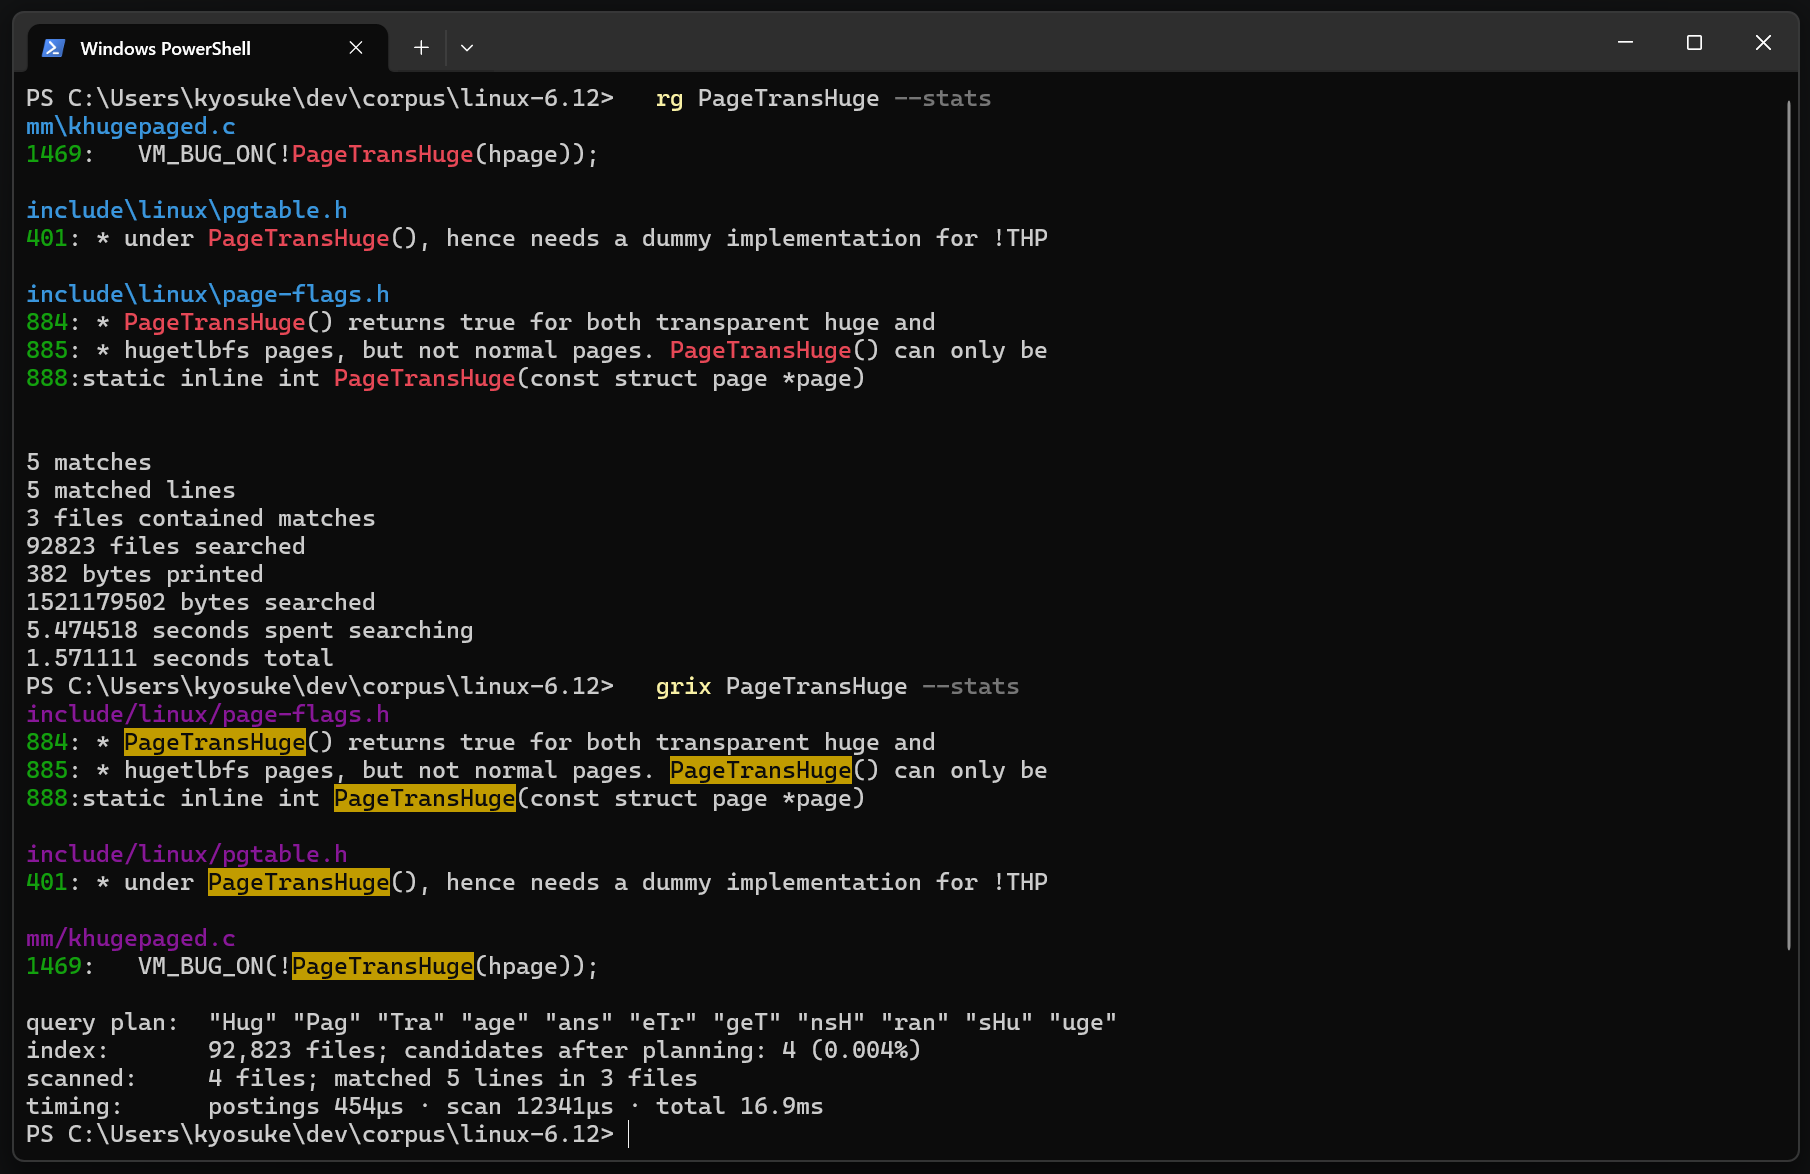
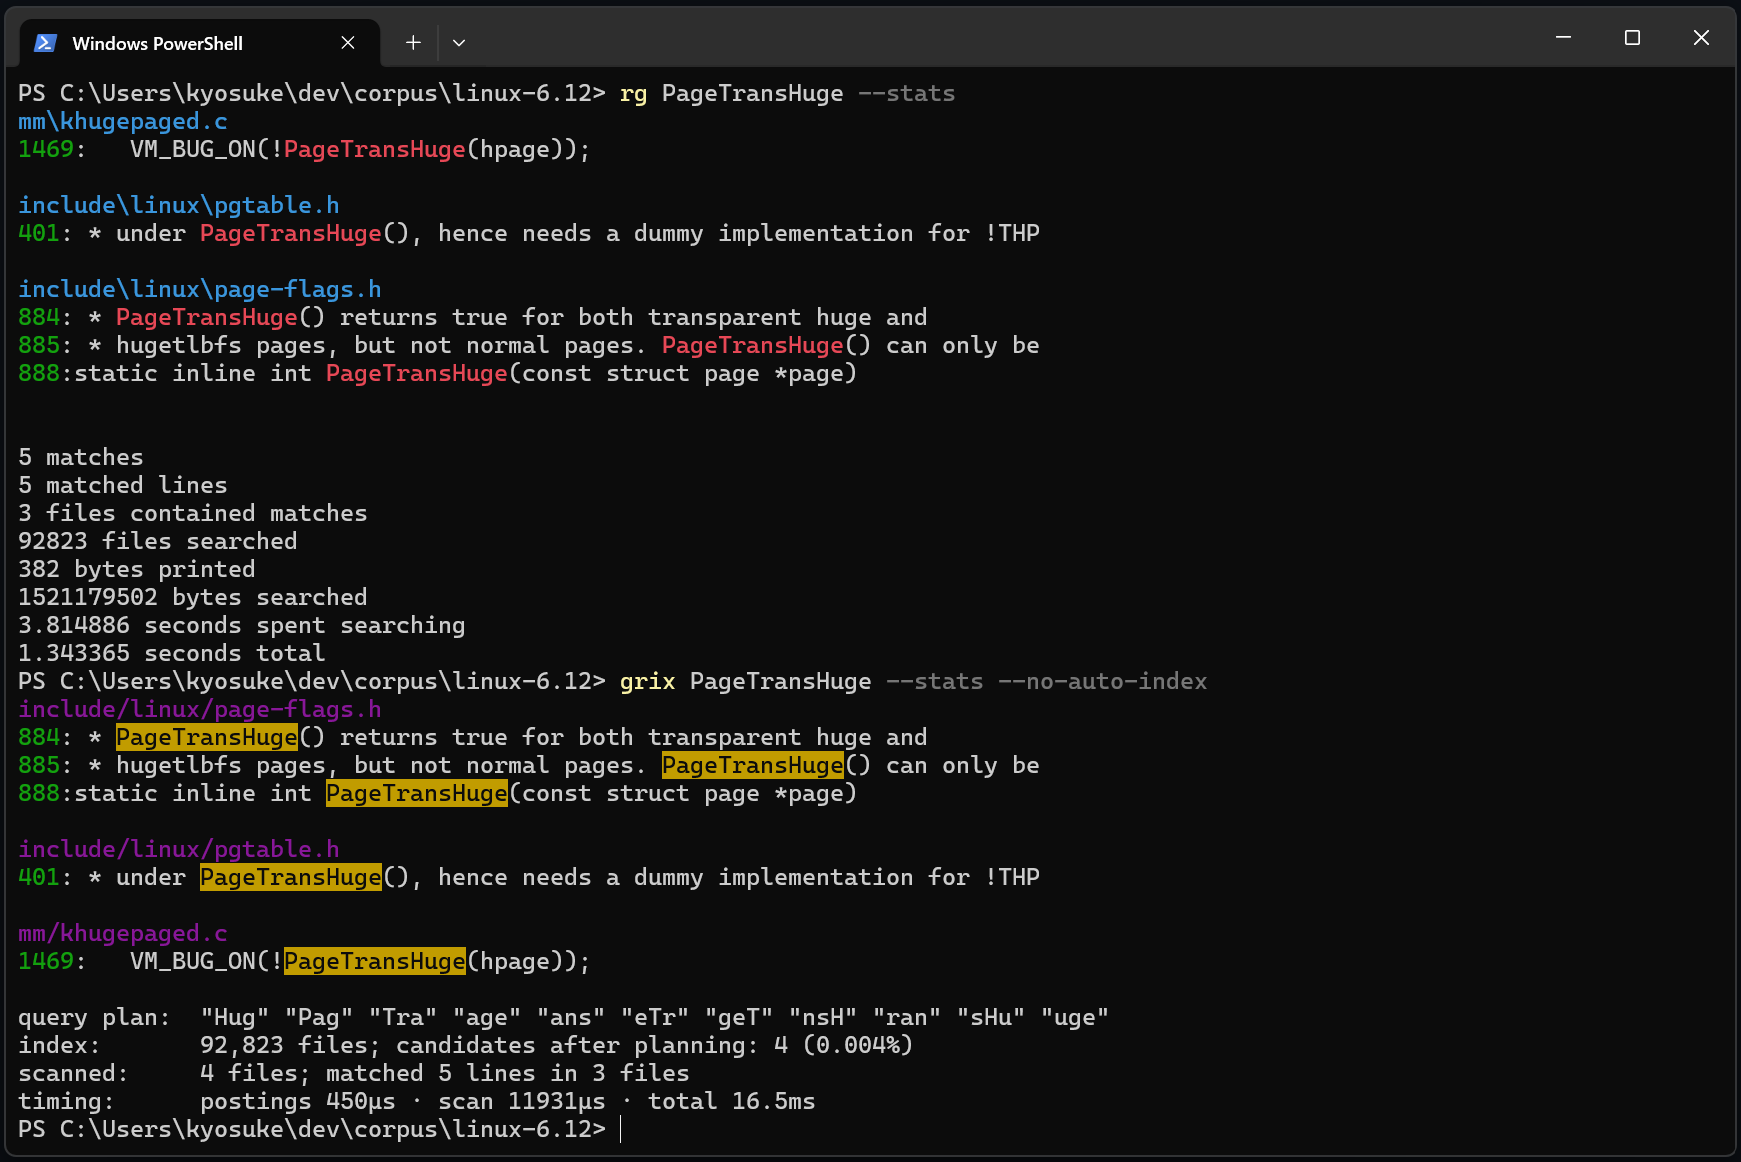
ベンチ画像をv0.5.0の実測に更新（rg 1.34s vs grix 16.5ms、ネイティブ環境で撮影）

Changed region(s): [[0.0, 0.0, 1.0, 1.0], [0.6513, 0.5577, 0.6824, 0.5886], [0.5893, 0.5577, 0.6203, 0.5886]]

diff --git a/README.ja.md b/README.ja.md
@@ -12,7 +12,7 @@ grix は trigram 索引を使う grep です。
 [![ci](https://github.com/kyo5uke/grix/actions/workflows/ci.yml/badge.svg)](https://github.com/kyo5uke/grix/actions/workflows/ci.yml)
 [![License: MIT](https://img.shields.io/badge/License-MIT-blue.svg)](LICENSE)
 
-![Linuxカーネル92,823ファイルで ripgrep 1.57秒、grix 16.9ms。マッチ行は同一](docs/bench-kernel.png)
+![Linuxカーネル92,823ファイルで ripgrep 1.34秒、grix 16.5ms。マッチ行は同一](docs/bench-kernel.png)
 
 ## なぜ作ったか
 

diff --git a/README.md b/README.md
@@ -17,7 +17,7 @@ files.
 [![ci](https://github.com/kyo5uke/grix/actions/workflows/ci.yml/badge.svg)](https://github.com/kyo5uke/grix/actions/workflows/ci.yml)
 [![License: MIT](https://img.shields.io/badge/License-MIT-blue.svg)](LICENSE)
 
-![ripgrep 1.57s, grix 16.9ms on the linux kernel tree (92,823 files); identical matches](docs/bench-kernel.png)
+![ripgrep 1.34s, grix 16.5ms on the linux kernel tree (92,823 files); identical matches](docs/bench-kernel.png)
 
 ## Why
 
